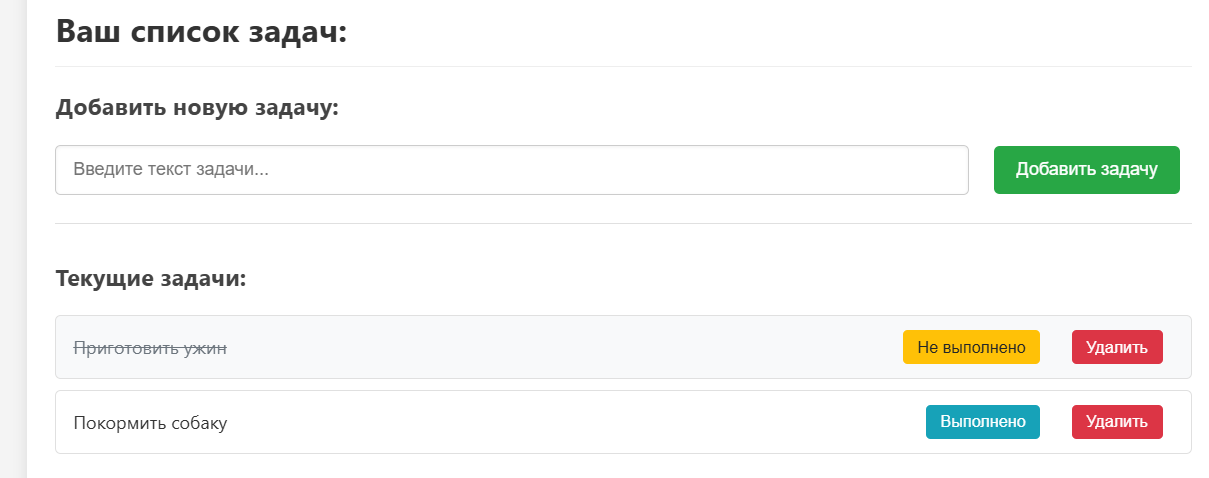
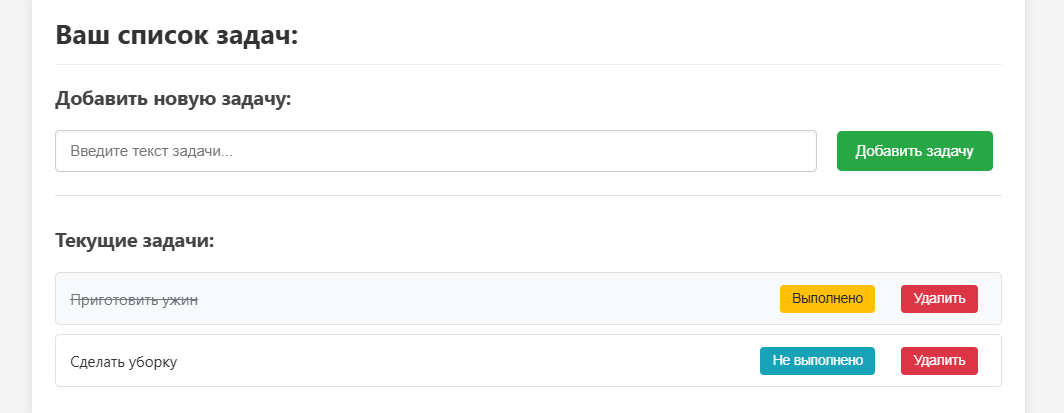
Update service_todo.html + image

diff --git a/src/templates/service_todo.html b/src/templates/service_todo.html
@@ -90,7 +90,9 @@
 
             tasks.forEach(task => {
                 const li = document.createElement('li');
-                li.className = `task-item ${task.done ? 'done' : ''}`;
+                console.log('Задача', task.id, 'done?', task.done);
+                li.classList.add('task-item');
+                li.classList.toggle('done', task.done);
                 li.dataset.taskId = task.id;
 
                 const taskTextSpan = document.createElement('span');
@@ -101,7 +103,7 @@
                 actionsDiv.className = 'task-actions';
 
                 const toggleDoneButton = document.createElement('button');
-                toggleDoneButton.textContent = task.done ? 'Не выполнено' : 'Выполнено';
+                toggleDoneButton.textContent = task.done ? 'Выполнено' : 'Не выполнено';
                 toggleDoneButton.className = `btn btn-toggle ${task.done ? 'btn-undo' : 'btn-done'}`;
                 toggleDoneButton.addEventListener('click', () => toggleTaskDone(task.id, !task.done));
                 

diff --git a/src/app.py b/src/app.py
@@ -754,14 +754,4 @@ def random_data_api_get_password():
 # Этот код выполняется только тогда, когда скрипт app.py запускается напрямую
 # (а не импортируется как модуль в другой скрипт).
 if __name__ == '__main__':
-    # app.run() запускает встроенный сервер разработки Flask.
-    # debug=True: активирует режим отладки (показывает ошибки в браузере, автоперезагрузка).
-    # ВАЖНО: Никогда не используйте debug=True в рабочей (production) среде!
-    # host='0.0.0.0': делает сервер доступным по всем сетевым интерфейсам компьютера,
-    # а не только по localhost (127.0.0.1). Удобно для тестирования с других устройств
-    # в локальной сети.
-    # port=5001: указывает порт, на котором будет работать сервер.
-    # ЗАМЕНИТЬ: Для реального развертывания (production) следует использовать
-    #          более производительный и безопасный WSGI-сервер, например, Gunicorn или uWSGI.
-    #          Пример запуска с Gunicorn: `gunicorn -w 4 -b 0.0.0.0:5001 app:app`
     app.run(host='127.0.0.1', port=5001, debug=True)
